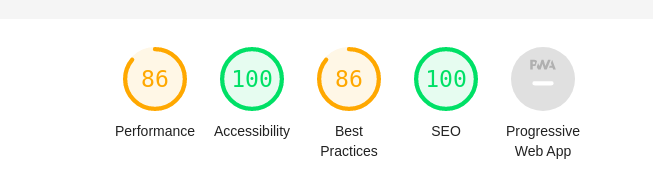
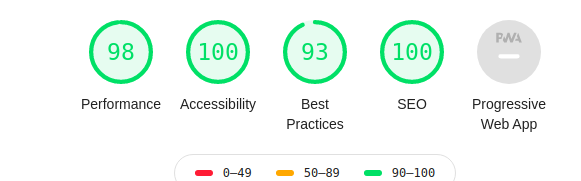
Updated Readme file

diff --git a/src/client/serviceWorker.js b/src/client/serviceWorker.js
@@ -1,13 +1,6 @@
 export function register(config) {
   if ('serviceWorker' in navigator) {
     window.addEventListener('load', function() {
-      navigator.serviceWorker.register('./sw.js').then(function(registration) {
-        // Registration was successful
-        console.log('ServiceWorker registration successful with scope: ', registration.scope);
-      }, function(err) {
-        // registration failed 
-        console.log('ServiceWorker registration failed: ', err);
-      });
     });
   }
 }

diff --git a/src/components/filters/index.js b/src/components/filters/index.js
@@ -1,5 +1,5 @@
 import React from "react";
-import "./filter.css";
+import "./style.css";
 
 export default class Filters extends React.Component {
   constructor(props) {

diff --git a/README.md b/README.md
@@ -1,6 +1,15 @@
 # SpaceX
-A React server side rendering application which would help users list and browse all launches by SpaceX program with some filters for the years of launches.
+[Author-Shanu Goyanka](https://www.linkedin.com/in/shanu-goyanka/)
+
+A React server side rendering application which would help users list and browse all launches by SpaceX program with some filters for the years of launches and successfull landing and launches as well.
 [Demo](https://spacex-launch-2020.herokuapp.com/) of this repo.
+
+## Getting started
+
+This is a basic API skeleton written in NodeJs-Express framework.
+
+This project is **Server side rendering application** using **React-ssr-scripts** as framework. I had tried to maintain the code
+structure easy to understand & maintain. Project is open for suggestions & bugs can be reports as well.
 
 ## Prerequisties
 
@@ -13,10 +22,17 @@ Install node packages required for this project
 ```bash
 $ yarn
 ```
-To start the app on http://localhost:3000
+To start the app on localhost fr hot reloading at http://localhost:3000
 
 ```bash
 $ yarn start
+```
+
+To use it on production environment 
+
+```bash
+$ yarn run build
+$ node build
 ```
 
 ## Run Test Cases
@@ -26,11 +42,80 @@ Install node packages required for this project
 ```bash
 $ yarn test
 ```
+## Features
+
+-   Selected filter should change to selected state as shown in the visual comp (and should mimic
+the toggle behavior).
+-   Applied filters should change the URL and update the Page with latest records without
+refreshing the page.
+-   If the page is refreshed with the applied filters in the URL – the resulting page should be server
+side rendered &amp; subsequent filters should again be client side rendered.
+-   Light-weight & well documented project.
+-   Test cases with [Jest].
+-   Linting `(100% covered)` with [Eslint](https://eslint.org/) & [Prettier-vscode].
+-   Build and Packaging with [webpack].
 
 ## Deployment
 
 Integrate CI/CD setup to automatically deploy on heroku over master branch.
 Used [CircleCi](https://circleci.com/) for automatic deployments and [CodeClimate](https://codeclimate.com/) for the test coverage and code quality.
 
-## Lighthouse Score
+## Lighthouse Score (97.75 out of 100)
+
+### Idividual Scores
+```bash
+Performance: 98
+Accessibility: 100
+Best Practices: 93
+SEO: 100
+```
 <img src="assets/lighthouse.png" />
+
+## Project Structure
+```sh
+├── .circleci
+│   └── config.yml
+├── assets 
+├── build (production reaqdy code will be here)
+├── Public
+├── src
+│   ├── client
+│   │   └── index.js
+│   │   └── index.css
+│   │   └── serviceWorker.js
+│   ├── components
+│   │   ├── card
+│   │   │   ├── __test__
+│   │   │   ├── index.js
+│   │   │   ├── style.css
+│   │   ├── filters
+│   │   │   ├── __test__
+│   │   │   ├── index.js
+│   │   │   ├── filter.css
+│   │   └── launch-list
+│   │   │   ├── __test__
+│   │   │   ├── index.js
+│   │   │   ├── style.css
+│   │   └── result
+│   │   │   ├── __test__
+│   │   │   ├── index.js
+│   │   │   ├── style.css
+│   ├── server
+│   │   └── middleware
+│   │   │   ├── html.js
+│   │   │   ├── render.js
+│   │   └── index.js
+│   ├── App.css
+│   ├── App.js
+│   ├── App.test.js
+│   ├── index.js
+│   ├── logo.svg
+│   ├── mock.json
+│   ├── serviceWorker.js
+├── .yarn.lock
+├── .babelrc
+├── .gitignore
+├── webpack.ssr.config.js
+├── package.json
+└── README.md
+```
